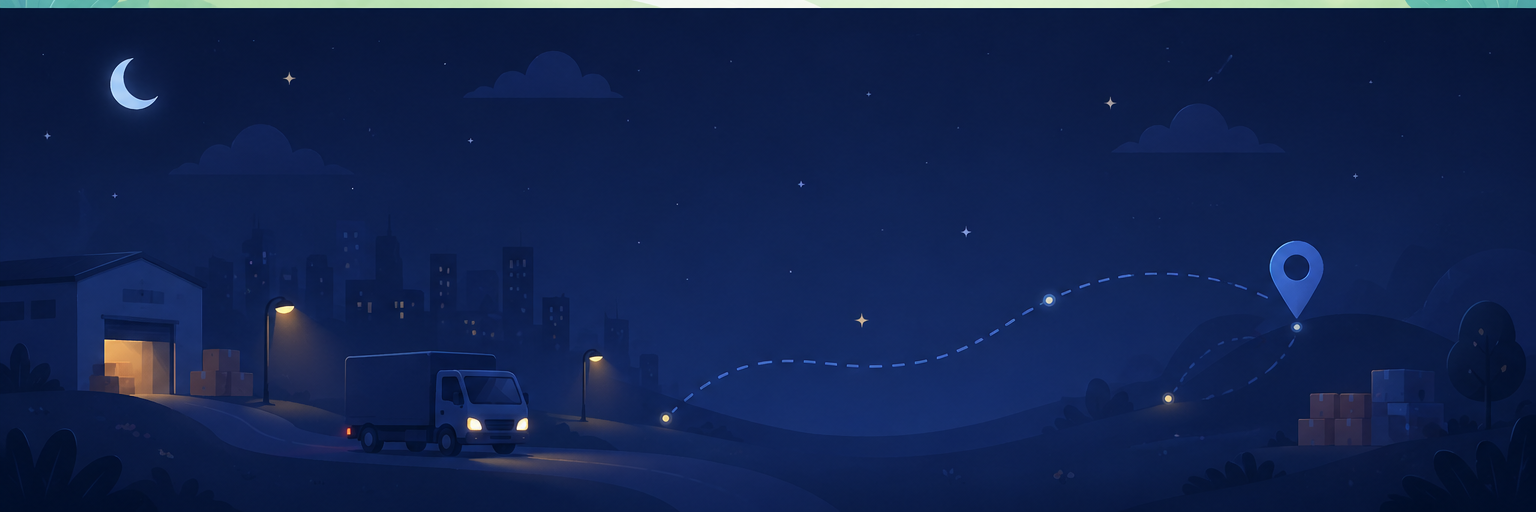
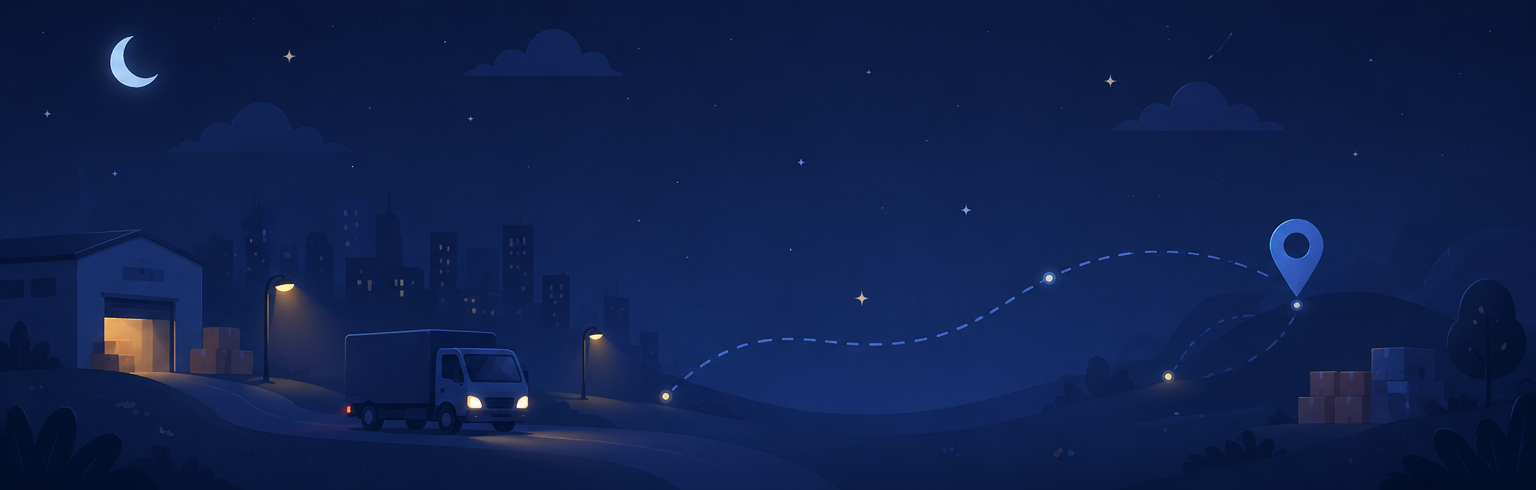
Fix: language option visibility in dark mode, mobile overlaps, and dark_mode_bg.png top crop

diff --git a/frontend/index.html b/frontend/index.html
@@ -405,6 +405,33 @@ body.light-mode .pin-box, body.light-mode input, body.light-mode select {
     box-shadow: 0 0 15px rgba(var(--primary-rgb, 79, 140, 255), 0.3) !important;
     transform: translateY(-3px);
 }
+select option {
+    background-color: #0b1220;
+    color: #ffffff;
+}
+body.light-mode select option {
+    background-color: #ffffff;
+    color: #0f172a;
+}
+@media (max-width: 768px) {
+    #theme-toggle {
+        top: 10px !important;
+        right: 10px !important;
+        padding: 6px 12px !important;
+        font-size: 0.75rem !important;
+    }
+    .lang-selector-wrap {
+        top: 10px !important;
+        right: 90px !important;
+        padding: 2px 6px !important;
+    }
+    .hero {
+        padding-top: 60px !important;
+    }
+    .updates-pill {
+        margin-top: 60px !important;
+    }
+}
 </style>
 </head>
 
@@ -414,7 +441,7 @@ body.light-mode .pin-box, body.light-mode input, body.light-mode select {
 <button id="theme-toggle">🌙 Dark</button>
 
 <!-- Language Selector Dropdown -->
-<div class="glass-card" style="position:fixed; top:20px; right:120px; padding:4px 8px; border:1px solid var(--border); border-radius:10px; background:rgba(255,255,255,0.05); display:flex; align-items:center; gap:8px; z-index:9999; backdrop-filter:blur(10px);">
+<div class="glass-card lang-selector-wrap" style="position:fixed; top:20px; right:120px; padding:4px 8px; border:1px solid var(--border); border-radius:10px; background:rgba(255,255,255,0.05); display:flex; align-items:center; gap:8px; z-index:9999; backdrop-filter:blur(10px);">
     <span style="font-size:0.8rem; font-weight:800; color:var(--muted); padding-left:5px;">🌐</span>
     <select onchange="setLanguage(this.value)" style="background:none; border:none; color:var(--text); cursor:pointer; font-size:0.8rem; font-weight:800; padding:4px 20px 4px 4px; width:auto; appearance:auto; outline:none;">
             <option value="en">English (EN)</option>

diff --git a/frontend/pages/updates.html b/frontend/pages/updates.html
@@ -227,6 +227,38 @@
         strong {
             color: var(--text);
         }
+
+        select option {
+            background-color: #0b1220;
+            color: #ffffff;
+        }
+        body.light-mode select option {
+            background-color: #ffffff;
+            color: #0f172a;
+        }
+
+        @media (max-width: 768px) {
+            .back-link {
+                top: 10px !important;
+                left: 10px !important;
+                padding: 6px 12px !important;
+                font-size: 0.75rem !important;
+            }
+            #theme-toggle {
+                top: 10px !important;
+                right: 10px !important;
+                padding: 6px 10px !important;
+                font-size: 0.75rem !important;
+            }
+            #lang-selector {
+                top: 10px !important;
+                right: 85px !important;
+                padding: 2px 6px !important;
+            }
+            .container {
+                padding-top: 70px !important;
+            }
+        }
     </style>
 </head>
 <body>

diff --git a/frontend/css/style.css b/frontend/css/style.css
@@ -262,13 +262,13 @@ body.light-mode input, body.light-mode select, body.light-mode textarea {
 }
 
 option {
-    background-color: #1a202c; /* Dark background for options in dark mode */
-    color: white;
+    background-color: #0b1220 !important; /* Dark background matching --bg */
+    color: white !important;
 }
 
 body.light-mode option {
-    background-color: white;
-    color: #0f172a;
+    background-color: white !important;
+    color: #0f172a !important;
 }
 
 input:focus, select:focus {
